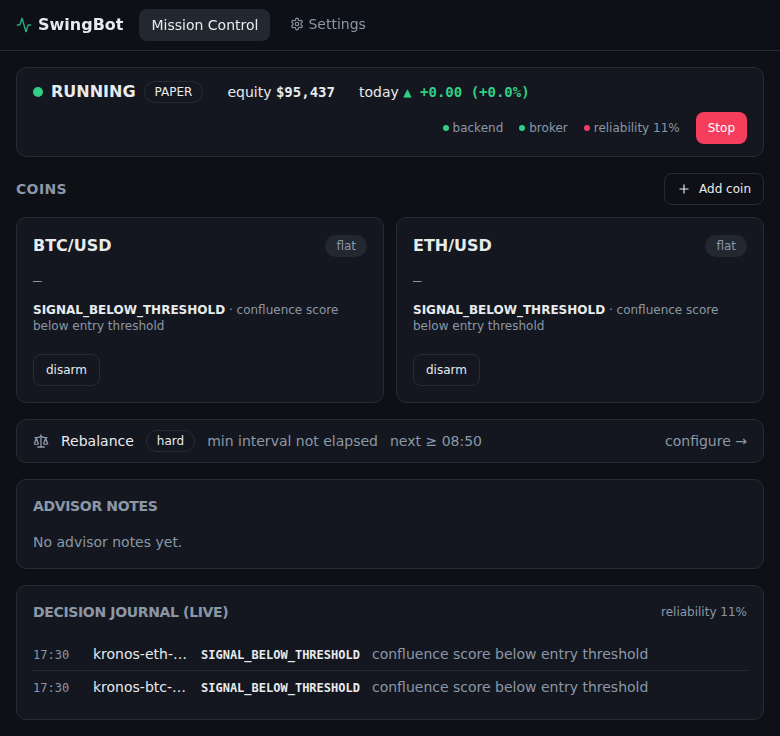
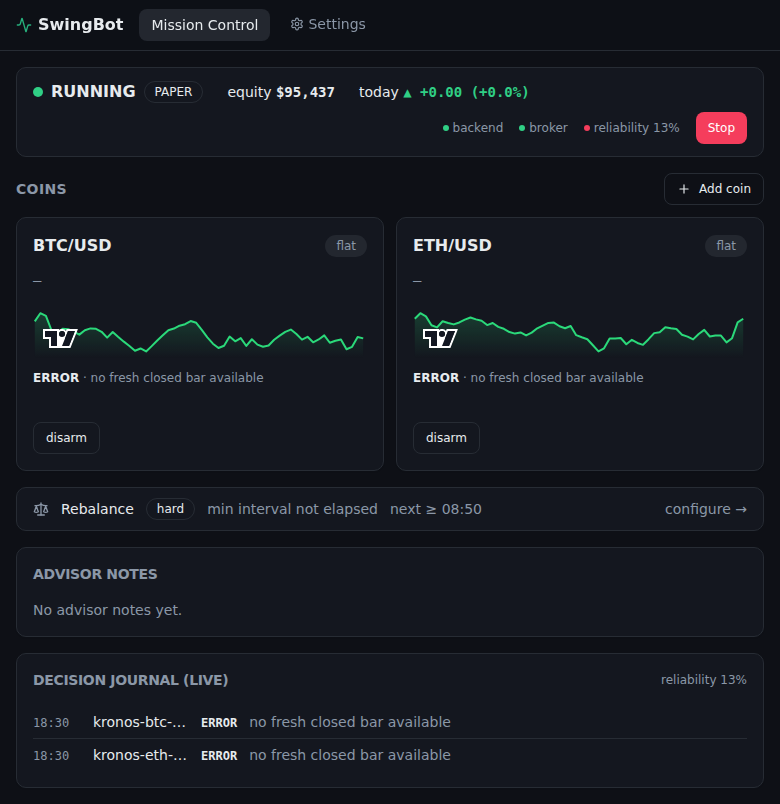
feat(ui): mini price sparkline on each Mission Control coin card
Adds a compact, non-interactive lightweight-charts area sparkline (recent 15m
closes from the data feed) to each CoinCard; clicks pass through (pointer-events:
none) so the card still navigates to the full detail chart. Brings charts onto
the dashboard per user request.

Claude-Session: https://claude.ai/code/session_01LWW4bhNJZmx96AbEqKGnrE

diff --git a/frontend/src/components/MiniChart.jsx b/frontend/src/components/MiniChart.jsx
@@ -1,0 +1,57 @@
+import { useEffect, useRef } from 'react'
+import { createChart, AreaSeries } from 'lightweight-charts'
+import { api } from '../api.js'
+
+const UP = '#2bd97a'
+
+// A compact, non-interactive price sparkline for a coin card. Clicks pass through
+// to the card (pointer-events: none) so the card still navigates to the detail page.
+export default function MiniChart({ symbol, timeframe = '15m', bars = 60, height = 56 }) {
+  const elRef = useRef(null)
+  const chartRef = useRef(null)
+  const seriesRef = useRef(null)
+
+  useEffect(() => {
+    if (!elRef.current || chartRef.current) return
+    const chart = createChart(elRef.current, {
+      height,
+      layout: { background: { color: 'transparent' }, textColor: 'transparent' },
+      grid: { vertLines: { visible: false }, horzLines: { visible: false } },
+      rightPriceScale: { visible: false },
+      leftPriceScale: { visible: false },
+      timeScale: { visible: false, borderVisible: false },
+      crosshair: { mode: 0 },
+      handleScroll: false,
+      handleScale: false,
+    })
+    const series = chart.addSeries(AreaSeries, {
+      lineColor: UP,
+      topColor: 'rgba(43, 217, 122, 0.25)',
+      bottomColor: 'rgba(43, 217, 122, 0)',
+      lineWidth: 2,
+      priceLineVisible: false,
+      lastValueVisible: false,
+    })
+    chartRef.current = chart
+    seriesRef.current = series
+    return () => { chart.remove(); chartRef.current = null; seriesRef.current = null }
+  }, [height])
+
+  useEffect(() => {
+    let alive = true
+    const load = async () => {
+      try {
+        const resp = await api.candles(symbol, timeframe, bars)
+        if (!alive || !seriesRef.current) return
+        const data = (resp?.candles || []).map((c) => ({ time: c.time, value: c.close }))
+        seriesRef.current.setData(data)
+        chartRef.current?.timeScale().fitContent()
+      } catch { /* a data hiccup shouldn't break the card */ }
+    }
+    load()
+    const id = setInterval(load, 30000)
+    return () => { alive = false; clearInterval(id) }
+  }, [symbol, timeframe, bars])
+
+  return <div ref={elRef} style={{ width: '100%', height, pointerEvents: 'none' }} />
+}

diff --git a/frontend/src/components/CoinCard.jsx b/frontend/src/components/CoinCard.jsx
@@ -4,6 +4,7 @@ import { api } from '../api.js'
 import { Card, CardContent } from './ui/card.jsx'
 import { Badge } from './ui/badge.jsx'
 import { Button } from './ui/button.jsx'
+import MiniChart from './MiniChart.jsx'
 import { cn } from '../lib/utils.js'
 import { cardStatus, lastDecision } from '../lib/derive.js'
 
@@ -47,6 +48,7 @@ export default function CoinCard({ strategy, health, onChange }) {
             <div className="text-muted-foreground">—</div>
           )}
         </div>
+        {strategy.symbol && <MiniChart symbol={strategy.symbol} />}
         <div className="min-h-[2.5rem] text-xs text-muted-foreground">
           {decision ? <><b className="text-foreground">{decision.code}</b> · {decision.reason}</> : 'no recent decision'}
         </div>